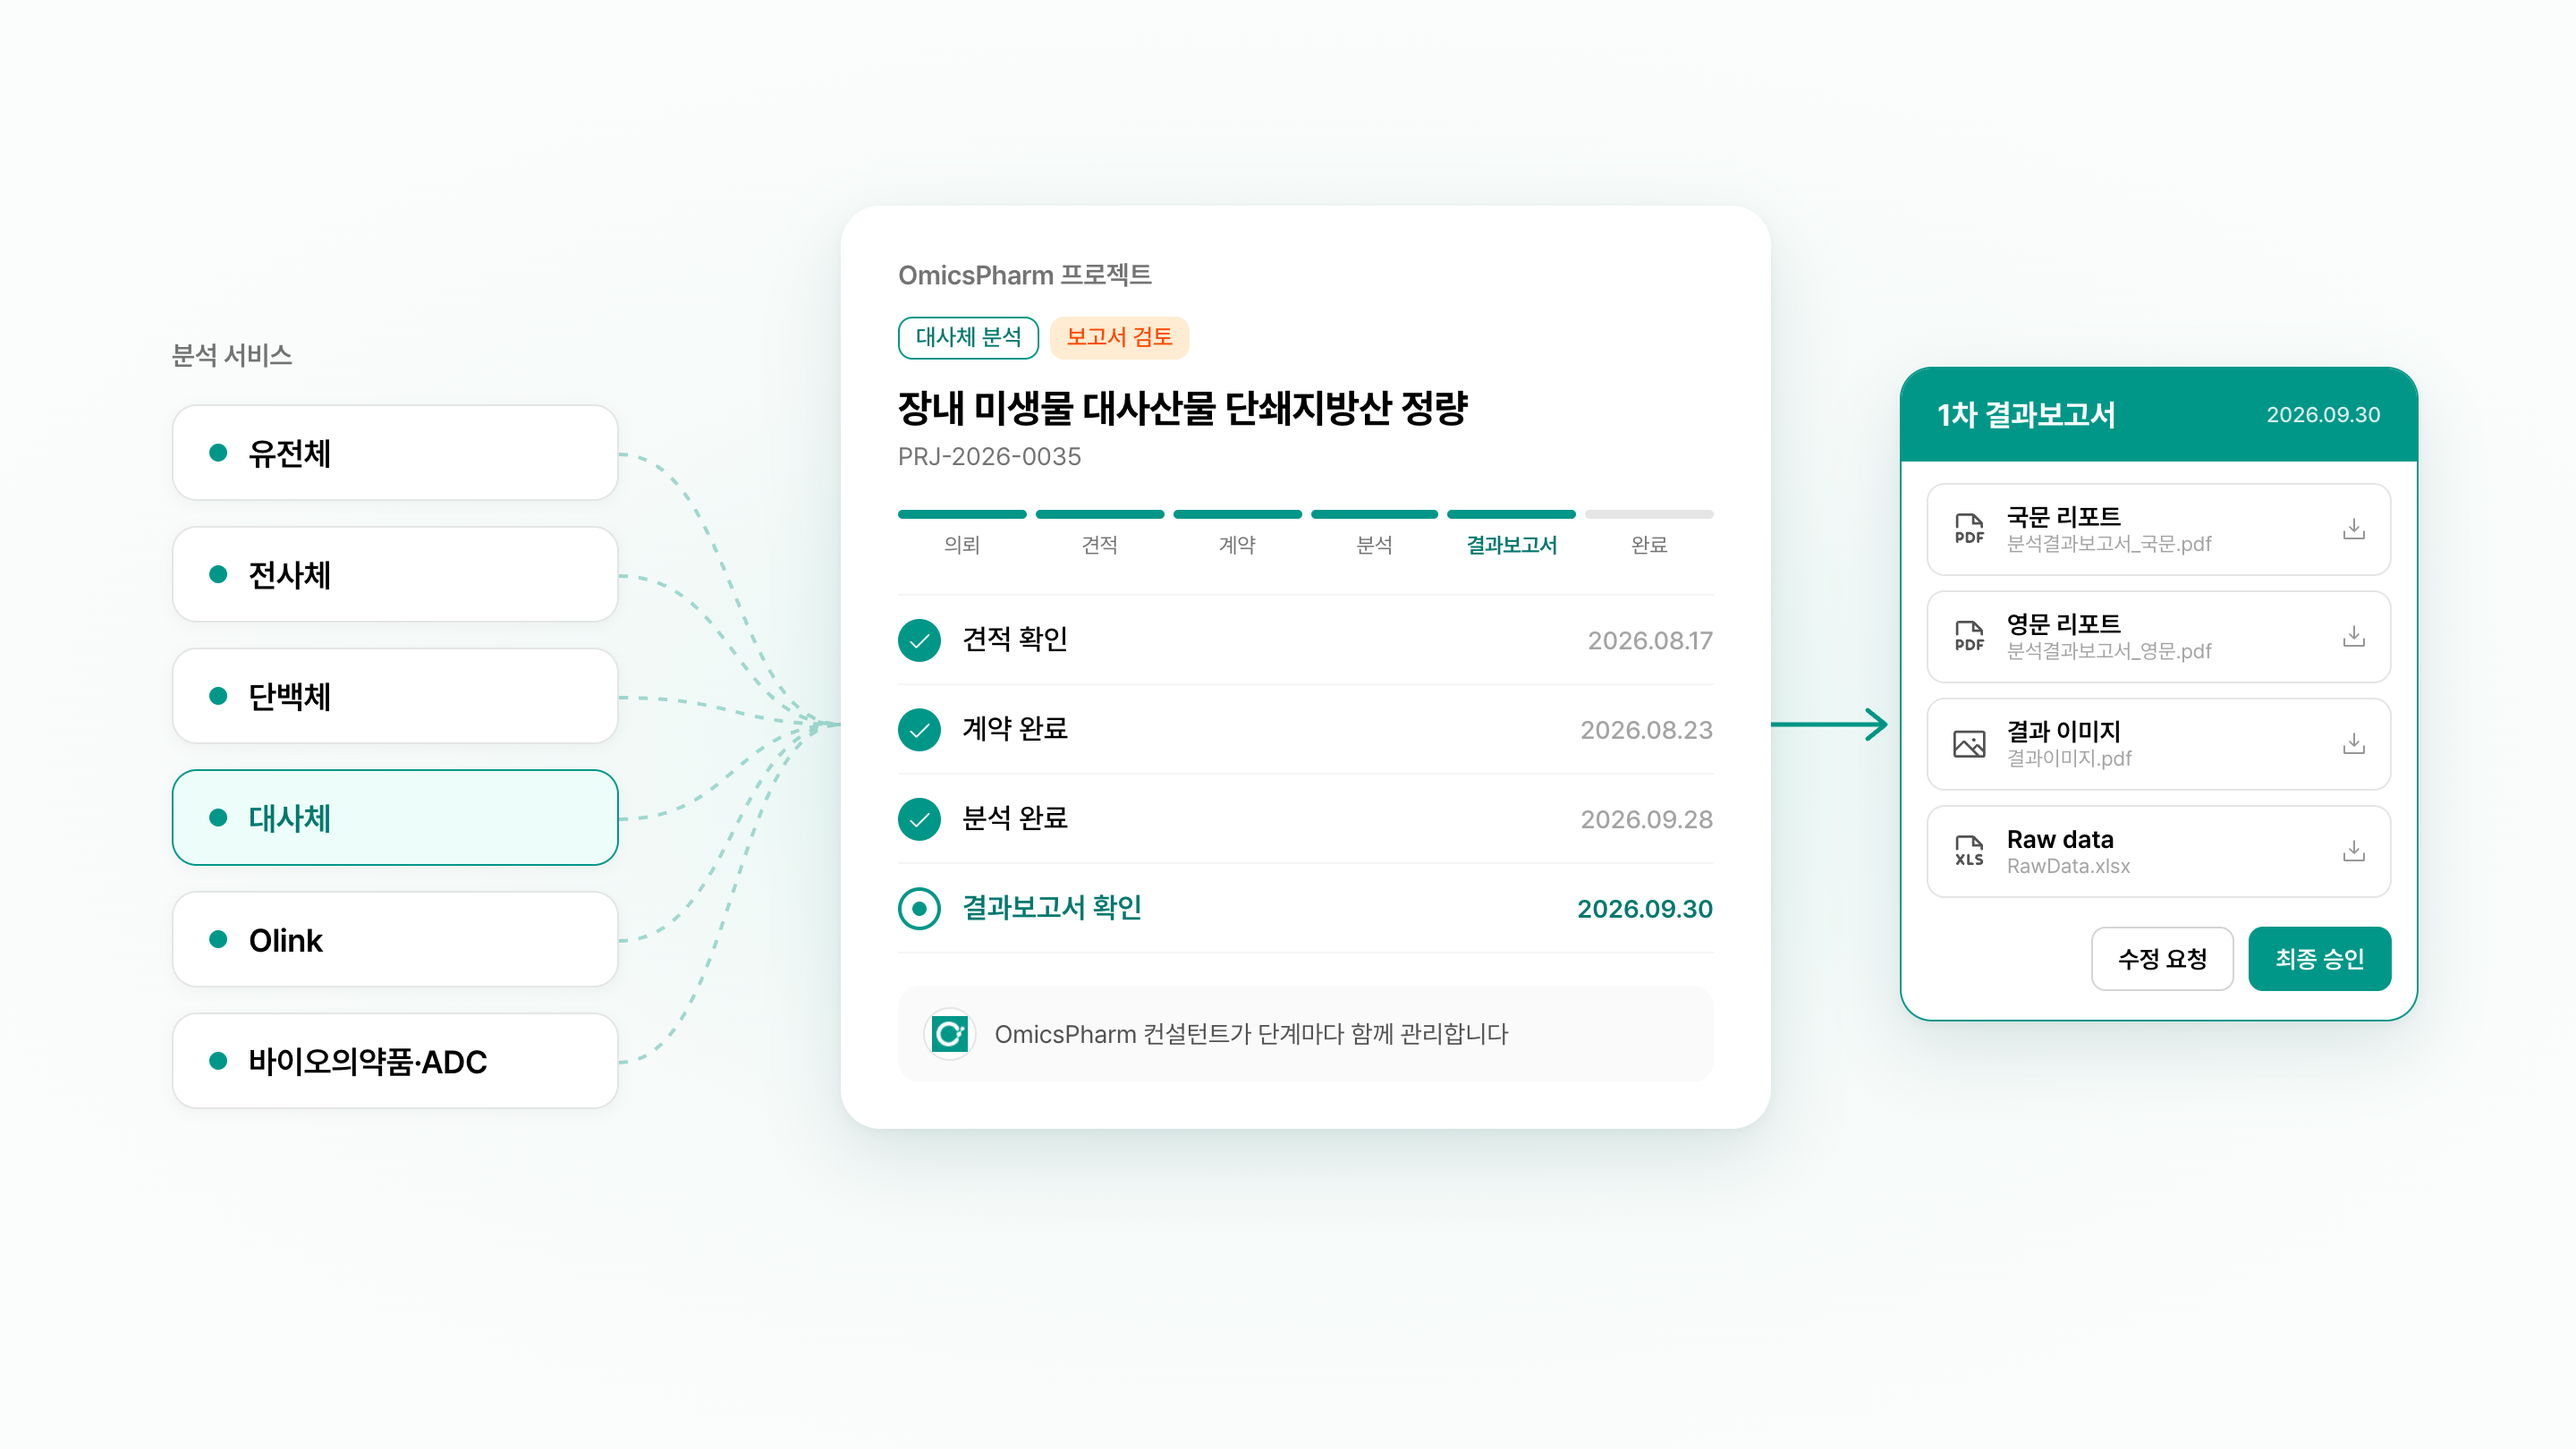
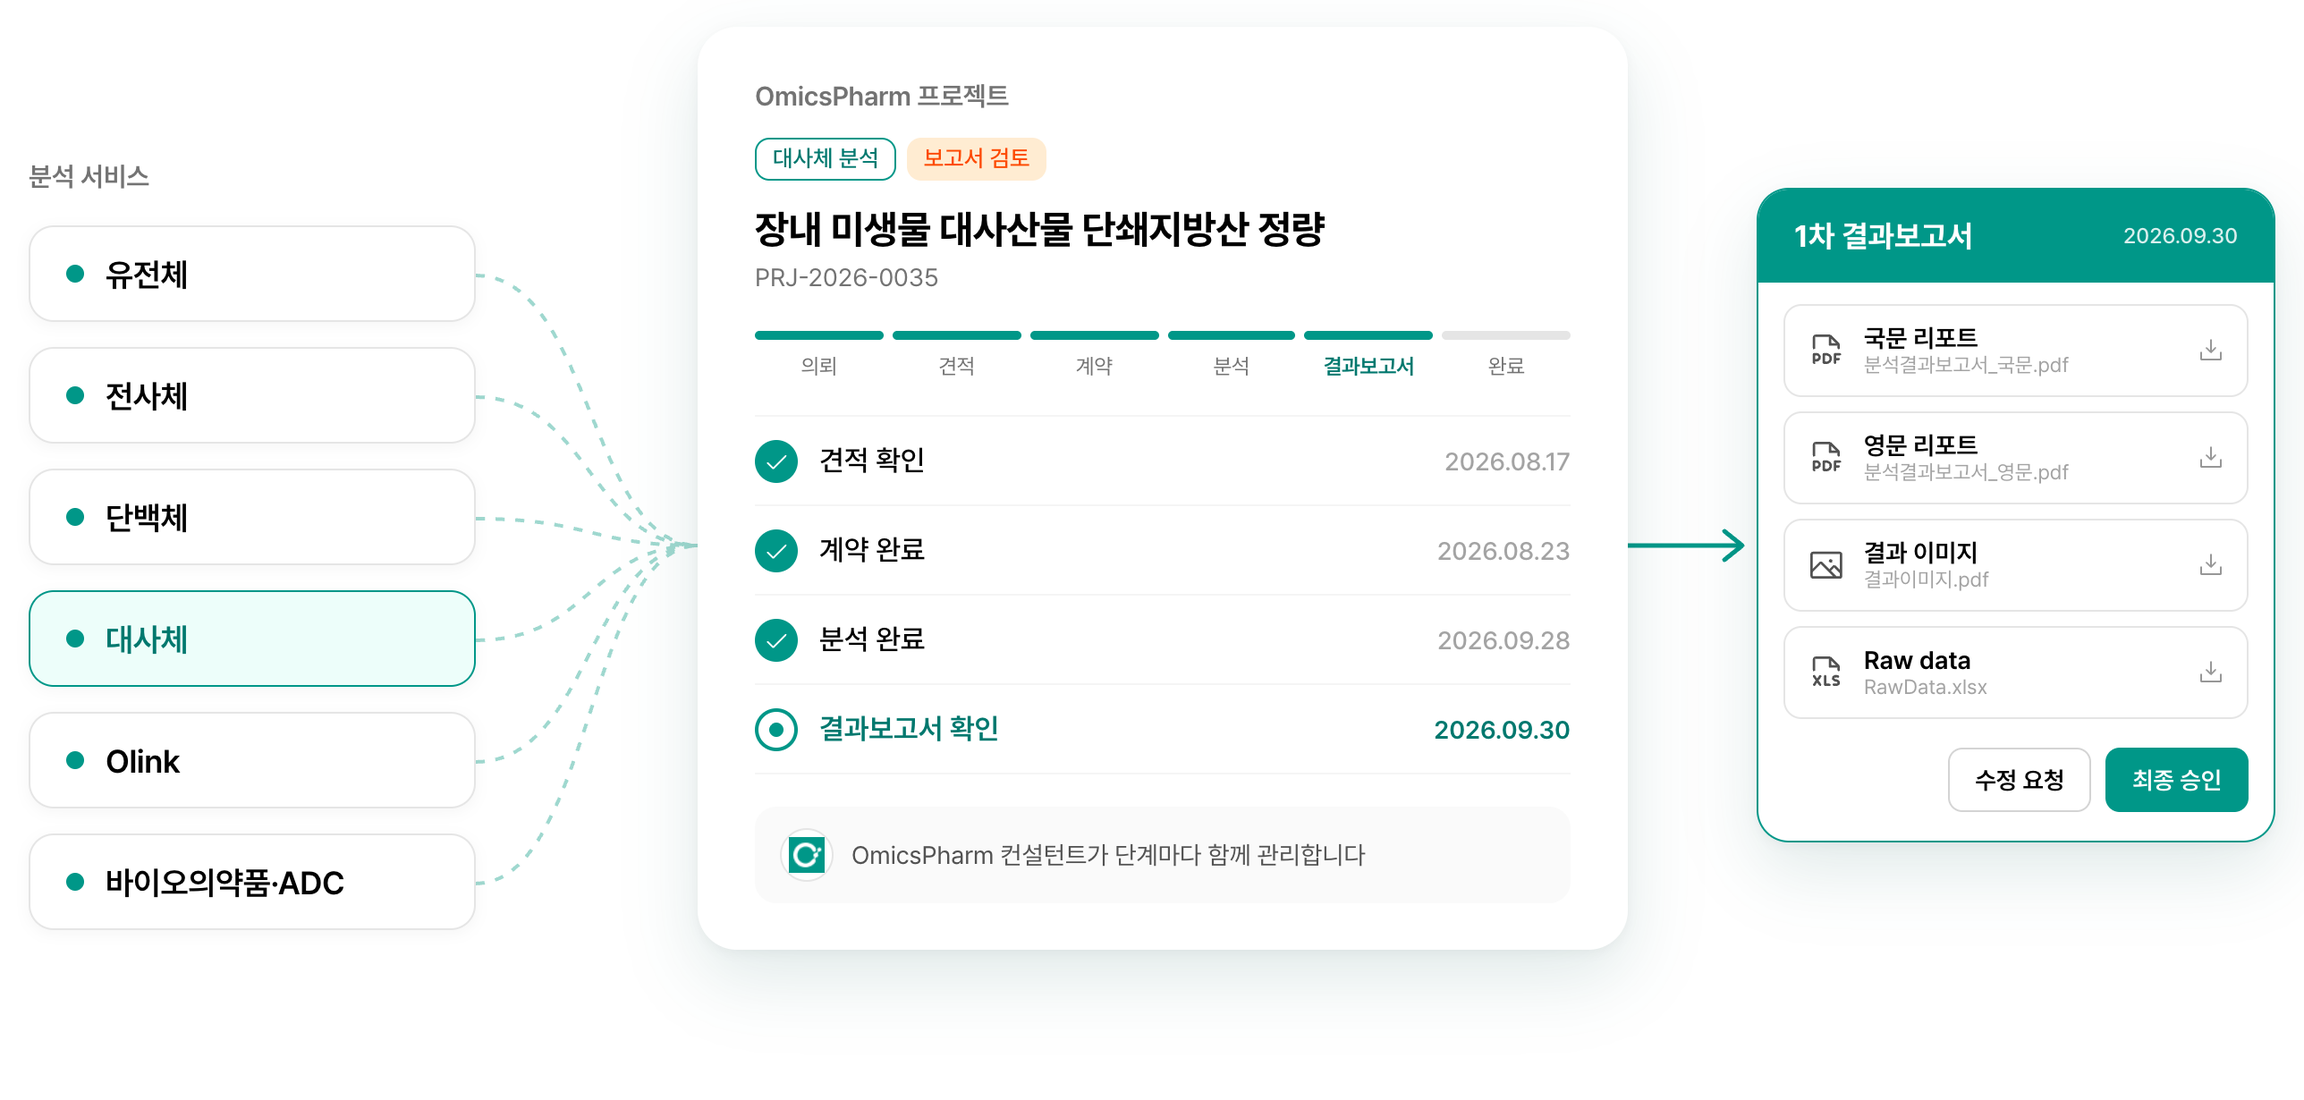
메인 Service: 제목·설명 1안, 흐름 그래픽 배경 없이 크게

diff --git a/index.html b/index.html
@@ -82,12 +82,12 @@
   .service-in { position:relative; width:876px; max-width:100%; display:flex; flex-direction:column; align-items:center; gap:60px; }
   .sec-head { display:flex; flex-direction:column; align-items:center; gap:24px; text-align:center; }
   .eyebrow { display:flex; align-items:center; gap:6px; font-size:16px; font-weight:500; line-height:22px; color:var(--highlight); } /* 16 Medium, 로켓 아이콘 없음 (2026-11-04) */
-  .sec-head h2 { font-size:40px; font-weight:700; line-height:52px; letter-spacing:-.4px; }
+  .sec-head h2 { font-size:40px; font-weight:700; line-height:52px; letter-spacing:-.4px; word-break:keep-all; }
   .sec-head .desc { font-size:18px; font-weight:500; line-height:24px; letter-spacing:-.18px; color:var(--gray-700); }
   .service h2 { color:var(--dark-green); }
   .service .sec-head h2 + .desc { margin-top:-4px; } /* 제목-설명 간격 20px (Figma 959:12435) */
-  .service-shot { width:100%; aspect-ratio:2880/1620; border-radius:4px; box-shadow:0 4px 22px rgba(0,0,0,.25); overflow:hidden; }
-  .service-shot img { width:100%; height:100%; object-fit:cover; }
+  .service-shot { flex:none; width:1120px; max-width:calc(100vw - 40px); aspect-ratio:2576/1230; } /* 흐름 그래픽(투명 배경)은 박스·그림자 없이 섹션 위에 바로, 글 너비(876)보다 넓게 (2026-11-04) */
+  .service-shot img { width:100%; height:100%; object-fit:contain; }
 
   /* ── Features (1088:33718) ── */
   .features { display:flex; flex-direction:column; align-items:center; gap:60px; }
@@ -385,8 +385,8 @@
   <div class="service-in">
     <div class="sec-head">
       <div class="eyebrow">Service</div>
-      <h2>복잡한 오믹스 분석 과정을<br>하나로 통합하였습니다.</h2>
-      <p class="desc">유전체, 전사체, 단백체, 대사체, 바이오의약품 특성분석, 멀티오믹스 통합 분석 등 <br>국내 최고의 분석 파트너들과의 연결을 통해 가장 합리적인 가격으로 신뢰할 수 있는 분석 결과를 제공해 드립니다.</p>
+      <h2>멀티오믹스 분석, 한곳에서 의뢰하고<br>인사이트까지 얻으세요.</h2>
+      <p class="desc">분석 기관을 따로 찾고 비교할 필요 없이, 의뢰부터 결과 확인까지 OmicsPharm에서 이어집니다.</p>
     </div>
     <div class="service-shot"><img src="assets/main/service-flow.png" alt="분석 서비스를 한곳에서 의뢰하고 견적, 계약, 분석을 거쳐 결과보고서까지 받는 흐름"></div><!-- 2026-11-04 B안: 서비스 흐름 그래픽 (AI 요소 없음) -->
   </div>
